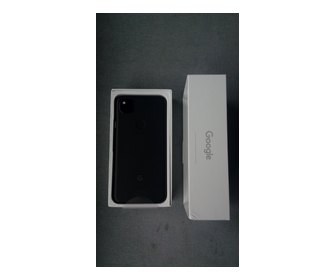
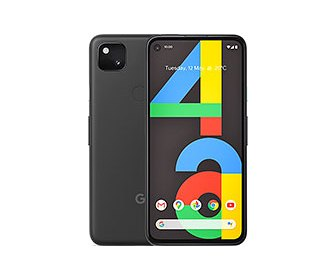
Use manufacturer press renders for the Pixels and Redmi 5
Replaces the amateur Commons photographs with official product renders on
white, matching the other vendor images. Adds the missing Redmi 5.

Claude-Session: https://claude.ai/code/session_01WbhVa39XQw1Vg5nf3DgH4T

diff --git a/index.html b/index.html
@@ -235,7 +235,7 @@ footer a{color:var(--soft)}
       <div class="dev-item"><img src="devices/pixel3a.jpg" alt="Google Pixel 3a"><div class="n">Google Pixel 3a</div><div class="m">sargo</div></div>
       <div class="dev-item"><img src="devices/nexus5.jpg" alt="LG Nexus 5"><div class="n">LG Nexus 5</div><div class="m">hammerhead</div></div>
       <div class="dev-item"><img src="devices/mia1.jpg" alt="Xiaomi Mi A1"><div class="n">Xiaomi Mi A1</div><div class="m">tissot</div></div>
-      <div class="dev-item"><span class="noimg" aria-hidden="true"></span><div class="n">Xiaomi Redmi 5</div><div class="m">rosy</div></div>
+      <div class="dev-item"><img src="devices/redmi5.jpg" alt="Xiaomi Redmi 5"><div class="n">Xiaomi Redmi 5</div><div class="m">rosy</div></div>
       <div class="dev-item"><img src="devices/redminote4.jpg" alt="Xiaomi Redmi Note 4"><div class="n">Xiaomi Redmi Note 4</div><div class="m">mido</div></div>
       <div class="dev-item"><img src="devices/touchpad.jpg" alt="HP TouchPad"><div class="n">HP TouchPad</div><div class="m">tenderloin</div></div>
       <div class="dev-item"><img src="devices/key2.jpg" alt="BlackBerry Key2"><div class="n">BlackBerry Key2</div><div class="m">athena</div></div>
@@ -348,7 +348,7 @@ footer a{color:var(--soft)}
   <div class="wrap">
     <div>LuneOS is free software, built by the webOS Ports community.</div>
     <div><a href="https://wiki.webos-internals.org/">webOS Internals</a> — documentation for Palm-era hardware</div>
-    <p class="credits">Device images from Wikimedia Commons and Wikipedia, under CC licences — HP TouchPad by Ben Miller (CC BY 2.0), PinePhone by ICCCC (CC0), BlackBerry Key2 (CC BY-SA 4.0), Google Pixel 3a by Noël (CC BY 4.0), Prométhée (CC BY-SA 3.0); RabbitMeow (CC BY-SA 4.0); Google Android (CC BY 2.5); Rohit Thakur (CC BY 3.0); All uploaded by User MartijnBraam (CC BY-SA 4.0); MartijnBraam (CC BY-SA 4.0); LOOOKI (CC BY-SA 4.0); Riski394 (CC BY-SA 4.0). Pixel photographs by Donald Trung Quoc Don (Chữ Hán: 徵國單) - W (CC BY-SA 4.0); Nisiguti (CC BY-SA 4.0); Tatsuo Yamashita (CC BY 2.0); AnVuong1222004 (8) (CC BY-SA 4.0). Images resized and placed on white. Photographs of the Zinwa Q25, Mecha Comet, FuriLabs FLX1s and GreenTouch Mind Phone are the manufacturers’ own product images.</p>
+    <p class="credits">Device images from Wikimedia Commons and Wikipedia, under CC licences — HP TouchPad by Ben Miller (CC BY 2.0), PinePhone by ICCCC (CC0), BlackBerry Key2 (CC BY-SA 4.0), Google Pixel 3a by Noël (CC BY 4.0), Prométhée (CC BY-SA 3.0); RabbitMeow (CC BY-SA 4.0); Google Android (CC BY 2.5); Rohit Thakur (CC BY 3.0); All uploaded by User MartijnBraam (CC BY-SA 4.0); MartijnBraam (CC BY-SA 4.0); LOOOKI (CC BY-SA 4.0); Riski394 (CC BY-SA 4.0). Images resized and placed on white. Photographs of the Zinwa Q25, Mecha Comet, FuriLabs FLX1s and GreenTouch Mind Phone are the manufacturers’ own product images, as are the Google Pixel and Xiaomi Redmi renders.</p>
   </div>
 </footer>
 
